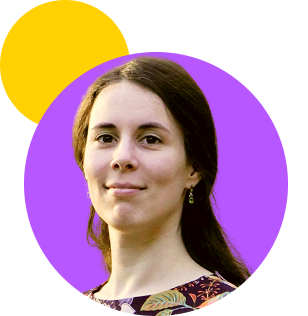
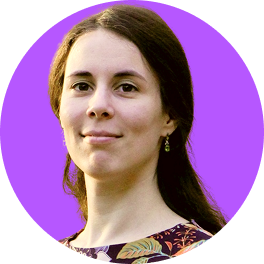
Страница /consortium.

diff --git a/src/pages/consortium/model/ConsortiumPage.data.ts b/src/pages/consortium/model/ConsortiumPage.data.ts
@@ -1,6 +1,8 @@
 import type { HeroSectionProps } from '~/widgets/consortium/hero'
 import type { FestivalSectionProps } from '~/widgets/consortium/festival'
 import type { DirectionsWorkProps } from '~/widgets/consortium/directions'
+import type { BenefitsSectionProps } from '~/widgets/consortium/benefits'
+import type { PersonQuoteProps } from '~/widgets/person-quote'
 import type { PlacesSectionProps } from './PlacesSection.types'
 import { createFallbackBlock } from '~/shared/api'
 import type { ContentPage } from '~/shared/api'
@@ -80,6 +82,27 @@ const directions: DirectionsWorkProps = {
   ],
 }
 
+const benefits: BenefitsSectionProps = {
+  title: '7 причин присоединиться к консорциуму',
+  benefits: [
+    'Усиление имиджа вуза',
+    'Поиск партнёров для совместных проектов',
+    'Развитие карьерных возможностей студентов',
+    'Масштабные ИТ-мероприятия на ваших площадках',
+    'Привлечение талантливых абитуриентов',
+    'Повышение качества образовательных программ',
+    'Новые возможности для обмена опытом',
+  ],
+}
+
+const personQuote: PersonQuoteProps = {
+  title: 'От первого лица',
+  image: '/images/maleev.jpg',
+  name: 'Алексей Малеев',
+  role: 'Руководитель программного<br> комитета Всероссийского фестиваля RuCode',
+  text: 'Консорциум соорганизаторов&nbsp;— это&nbsp;основа успеха Фестиваля RuCode. Совместная работа ведущих вузов, компаний и&nbsp;экспертов позволяет создать уникальную платформу для&nbsp;развития молодых талантов в&nbsp;сфере IT. Только объединив усилия, мы&nbsp;можем достичь действительно значимых результатов и&nbsp;внести вклад в&nbsp;будущее нашей страны',
+}
+
 const consortium: PlacesSectionProps = {
   title: 'Площадки проведения',
 }
@@ -92,5 +115,7 @@ export const consortiumPageData: ContentPage = {
     createFallbackBlock('festival', 20, festival),
     createFallbackBlock('directions', 30, directions),
     createFallbackBlock('consortium', 40, consortium),
+    createFallbackBlock('benefits', 50, benefits),
+    createFallbackBlock('personQuote', 60, personQuote),
   ],
 }

diff --git a/src/pages/ai_champ/model/AiChamp.data.ts b/src/pages/ai_champ/model/AiChamp.data.ts
@@ -6,6 +6,7 @@ import type { AiChampStagesProps } from '~/widgets/ai_champ/stages'
 import type { AiChampTasksProps } from '~/widgets/ai_champ/tasks'
 import type { AiChampPreparationProps } from '~/widgets/ai_champ/preparation'
 import type { EventsSliderProps } from '~/shared/ui/events-slider'
+import type { PersonQuoteProps } from '~/widgets/person-quote'
 import type { AiChampMaterialsProps } from '~/widgets/ai_champ/materials'
 import type { PartnersSectionProps } from '~/widgets/partners'
 
@@ -285,11 +286,14 @@ const courses: EventsSliderProps = {
   ],
 }
 
-const materials: AiChampMaterialsProps = {
+const personQuote: PersonQuoteProps = {
   title: 'Полезные материалы',
-  imagePerson: '/images/ai_champ/person.png',
-  namePerson: 'Александра Дунаева',
+  image: '/images/ai_champ/person.png',
+  name: 'Александра Дунаева',
   text: 'В конце октября вам предстоит отправить код своего лучшего решения на проверку. Позаботьтесь о том, чтобы сохранить код модели, которая показала наилучший результат. Также рекомендуется указывать seed в имени файла с ответами — это упростит воспроизведение результатов. Профессионалы используют для этого системы логирования экспериментов, такие как W&B, Comet, MLflow, ClearML или Aim. Ознакомьтесь с AutoML, например библиотекой <a class="text-yellow-primary underline hover:text-white hover:no-underline transition-all duration-200" href="https://developers.sber.ru/portal/products/lightautoml" target="_blank">LightAutoML</a> от Сбера. Это сэкономит время при решении некоторых задач.',
+}
+
+const materials: AiChampMaterialsProps = {
   footer: {
     image: '/images/ai_champ/notebook.png',
     text: 'Сборник задач по машинному обучению для школьников',
@@ -336,7 +340,8 @@ export const aiChampData: ContentPage = {
     createFallbackBlock('tasks', 50, tasks),
     createFallbackBlock('preparation', 60, preparation),
     createFallbackBlock('courses', 70, courses),
-    createFallbackBlock('materials', 80, materials),
+    createFallbackBlock('personQuote', 80, personQuote),
+    createFallbackBlock('materials', 85, materials),
     createFallbackBlock('partners', 90, partners),
   ],
 }

diff --git a/src/widgets/person-quote/ui/PersonQuote.vue b/src/widgets/person-quote/ui/PersonQuote.vue
@@ -1,0 +1,70 @@
+<script setup lang="ts">
+import type { PersonQuoteProps } from '../model/PersonQuote.types'
+
+defineProps<PersonQuoteProps>()
+</script>
+
+<template>
+  <section class="container space-y-9 sm:space-y-14">
+    <UiHeading v-if="title" class="text-purple-primary text-center" tag="h2">{{ title }}</UiHeading>
+    <div class="mx-auto flex max-w-251.75 flex-col items-center gap-10 md:flex-row">
+      <div class="flex max-w-80 flex-col items-center gap-4 text-center md:min-w-65">
+        <div class="avatar-decorations relative w-fit">
+          <div
+            class="relative z-20 size-40 overflow-hidden rounded-full bg-white/5 sm:size-45"
+            :class="avatarClass"
+          >
+            <NuxtImg
+              :src="image"
+              alt=""
+              loading="lazy"
+              class="relative z-30 size-full object-cover object-top"
+            />
+          </div>
+        </div>
+        <div class="space-y-4">
+          <UiText
+            size="custom"
+            weight="bold"
+            class="text-purple-primary text-[15px] md:text-[19px]"
+          >
+            {{ name }}
+          </UiText>
+          <UiText v-if="role" size="custom" class="text-[12px] sm:text-[13px]" :html="role" />
+        </div>
+      </div>
+
+      <div class="flex max-w-158.25 flex-col space-y-4">
+        <UiSvg name="quote-open" class="text-yellow-primary size-8 lg:size-10" />
+        <UiText :html="text" />
+        <UiSvg name="quote-close" class="text-yellow-primary ml-auto block size-8 lg:size-10" />
+      </div>
+    </div>
+  </section>
+</template>
+
+<style scoped>
+.avatar-decorations::before {
+  content: '';
+  position: absolute;
+  z-index: 30;
+  top: -6px;
+  left: -14px;
+  width: 36%;
+  aspect-ratio: 1;
+  border-radius: 9999px;
+  background: var(--color-yellow-primary);
+}
+
+.avatar-decorations::after {
+  content: '';
+  position: absolute;
+  z-index: 10;
+  top: -4px;
+  right: -22px;
+  width: 70px;
+  height: 140px;
+  background-image: radial-gradient(circle, #fff 2px, transparent 2.5px);
+  background-size: 17px 17px;
+}
+</style>

diff --git a/src/widgets/ai_champ/materials/ui/AiChampMaterials.vue b/src/widgets/ai_champ/materials/ui/AiChampMaterials.vue
@@ -5,43 +5,18 @@ defineProps<AiChampMaterialsProps>()
 </script>
 
 <template>
-  <section class="container flex flex-col items-center gap-10">
-    <UiHeading class="text-purple-primary text-center" tag="h2">{{ title }}</UiHeading>
-
-    <div class="flex w-full flex-col items-center gap-10 lg:flex-row lg:items-start lg:gap-16">
-      <div class="flex flex-col items-center pt-4 lg:items-start">
-        <NuxtPicture
-          :src="imagePerson"
-          width="210"
-          alt=""
-          loading="lazy"
-          :img-attrs="{
-            class: 'object-cover',
-          }"
-        />
-        <UiText weight="bold" class="text-purple-primary mt-4">{{ namePerson }}</UiText>
-      </div>
-
-      <div class="min-w-0 flex-1 space-y-4">
-        <UiSvg name="quote-open" class="text-yellow-primary size-8 lg:size-10" />
-        <UiText size="lg" :html="text" />
-        <UiSvg name="quote-close" class="text-yellow-primary ml-auto block size-8 lg:size-10" />
-      </div>
+  <section class="container flex flex-col items-center justify-center gap-4">
+    <div class="flex items-center gap-4">
+      <NuxtPicture
+        :src="footer.image"
+        width="64"
+        height="64"
+        alt=""
+        loading="lazy"
+        :img-attrs="{ class: 'size-16 object-contain' }"
+      />
+      <UiText size="lg" weight="bold" class="text-yellow-primary">{{ footer.text }}</UiText>
     </div>
-
-    <div class="flex w-full flex-col flex-wrap items-center justify-center gap-4">
-      <div class="flex items-center gap-4">
-        <NuxtPicture
-          :src="footer.image"
-          width="64"
-          height="64"
-          alt=""
-          loading="lazy"
-          :img-attrs="{ class: 'size-16 object-contain' }"
-        />
-        <UiText size="lg" weight="bold" class="text-yellow-primary">{{ footer.text }}</UiText>
-      </div>
-      <UiAction variant="ghost" :to="footer.action.to">{{ footer.action.text }}</UiAction>
-    </div>
+    <UiAction variant="ghost" :to="footer.action.to">{{ footer.action.text }}</UiAction>
   </section>
 </template>

diff --git a/src/widgets/consortium/benefits/ui/BenefitsSection.vue b/src/widgets/consortium/benefits/ui/BenefitsSection.vue
@@ -1,0 +1,53 @@
+<script setup lang="ts">
+import type { BenefitsSectionProps } from '../model/BenefitsSection.types'
+
+const props = defineProps<BenefitsSectionProps>()
+
+const isLastRow = (index: number) => {
+  const total = props.benefits.length
+  const lastRowStart = total % 2 === 0 ? total - 2 : total - 1
+  return index >= lastRowStart
+}
+</script>
+
+<template>
+  <section class="relative space-y-5 sm:space-y-10">
+    <UiHeading v-if="title" class="text-purple-primary container text-center font-black" tag="h2">
+      {{ title }}
+    </UiHeading>
+    <div class="relative z-10 mx-2.5">
+      <ul
+        class="benefits-list mx-auto grid max-w-225.5 grid-cols-1 overflow-hidden rounded-[40px] backdrop-blur-[48px] sm:grid-cols-2"
+      >
+        <li
+          v-for="(benefit, index) in benefits"
+          :key="benefit"
+          class="flex items-center justify-center px-10 py-4.5 text-center whitespace-pre-line md:py-10"
+          :class="[
+            index !== benefits.length - 1 && 'border-b border-dashed border-white/20',
+            isLastRow(index) && 'sm:border-b-0',
+            index === benefits.length - 1 && benefits.length % 2 === 1 && 'sm:col-span-full',
+          ]"
+        >
+          {{ benefit }}
+        </li>
+      </ul>
+    </div>
+
+    <div aria-hidden="true" class="pointer-events-none absolute inset-0 overflow-x-clip">
+      <div
+        class="bg-yellow-primary/18 absolute -bottom-25 left-0 size-80 -translate-x-2/3 rounded-full opacity-55 blur-[97px]"
+      />
+      <div
+        class="bg-yellow-primary/17 absolute -top-3 right-0 size-80 translate-x-4/5 rounded-full opacity-55 blur-[97px]"
+      />
+    </div>
+  </section>
+</template>
+
+<style scoped>
+.benefits-list {
+  border: 1px dashed rgb(255 255 255 / 0.2);
+  background: linear-gradient(160deg, rgb(255 255 255 / 0.02), rgb(255 255 255 / 0.1));
+}
+</style>

diff --git a/src/pages/consortium/ui/ConsortiumPage.vue b/src/pages/consortium/ui/ConsortiumPage.vue
@@ -2,6 +2,8 @@
 import { HeroSection } from '~/widgets/consortium/hero'
 import { FestivalSection } from '~/widgets/consortium/festival'
 import { DirectionsWork } from '~/widgets/consortium/directions'
+import { BenefitsSection } from '~/widgets/consortium/benefits'
+import { PersonQuote } from '~/widgets/person-quote'
 import PlacesSection from './PlacesSection.vue'
 
 import { consortiumPageData } from '../model/ConsortiumPage.data.ts'
@@ -13,9 +15,12 @@ const blockComponents: Record<string, Component> = {
   festival: FestivalSection,
   directions: DirectionsWork,
   consortium: PlacesSection,
+  benefits: BenefitsSection,
+  personQuote: PersonQuote,
 }
 
 const anchorIds: Record<string, string> = {
+  benefits: 'benefits',
   festival: 'main',
   directions: 'directions',
   consortium: 'consortium',

diff --git a/src/pages/ai_champ/ui/AiChamp.vue b/src/pages/ai_champ/ui/AiChamp.vue
@@ -11,6 +11,7 @@ import { AiChampPreparation } from '~/widgets/ai_champ/preparation'
 import { EventsSlider } from '~/shared/ui/events-slider'
 import { PartnersSection } from '~/widgets/partners'
 import { AiChampMaterials } from '~/widgets/ai_champ/materials'
+import { PersonQuote } from '~/widgets/person-quote'
 
 const blockComponents: Record<string, Component> = {
   hero: AiChampHero,
@@ -20,6 +21,7 @@ const blockComponents: Record<string, Component> = {
   tasks: AiChampTasks,
   preparation: AiChampPreparation,
   courses: EventsSlider,
+  personQuote: PersonQuote,
   materials: AiChampMaterials,
   partners: PartnersSection,
 }

diff --git a/src/widgets/ai_champ/materials/model/AiChampMaterials.types.ts b/src/widgets/ai_champ/materials/model/AiChampMaterials.types.ts
@@ -1,8 +1,4 @@
 export interface AiChampMaterialsProps {
-  title: string
-  imagePerson: string
-  namePerson: string
-  text: string
   footer: AiChampMaterialsFooterProps
 }
 

diff --git a/src/widgets/person-quote/model/PersonQuote.types.ts b/src/widgets/person-quote/model/PersonQuote.types.ts
@@ -1,0 +1,8 @@
+export interface PersonQuoteProps {
+  title?: string
+  image: string
+  name: string
+  role?: string
+  text: string
+  avatarClass?: string
+}

diff --git a/src/widgets/consortium/benefits/index.ts b/src/widgets/consortium/benefits/index.ts
@@ -1,0 +1,2 @@
+export { default as BenefitsSection } from './ui/BenefitsSection.vue'
+export type { BenefitsSectionProps } from './model/BenefitsSection.types'

diff --git a/index.ts b/index.ts
@@ -1,0 +1,2 @@
+export { default as PersonQuote } from './ui/PersonQuote.vue'
+export type { PersonQuoteProps } from './model/PersonQuote.types'

diff --git a/src/widgets/person-quote/index.ts b/src/widgets/person-quote/index.ts
@@ -1,0 +1,2 @@
+export { default as PersonQuote } from './ui/PersonQuote.vue'
+export type { PersonQuoteProps } from './model/PersonQuote.types'
